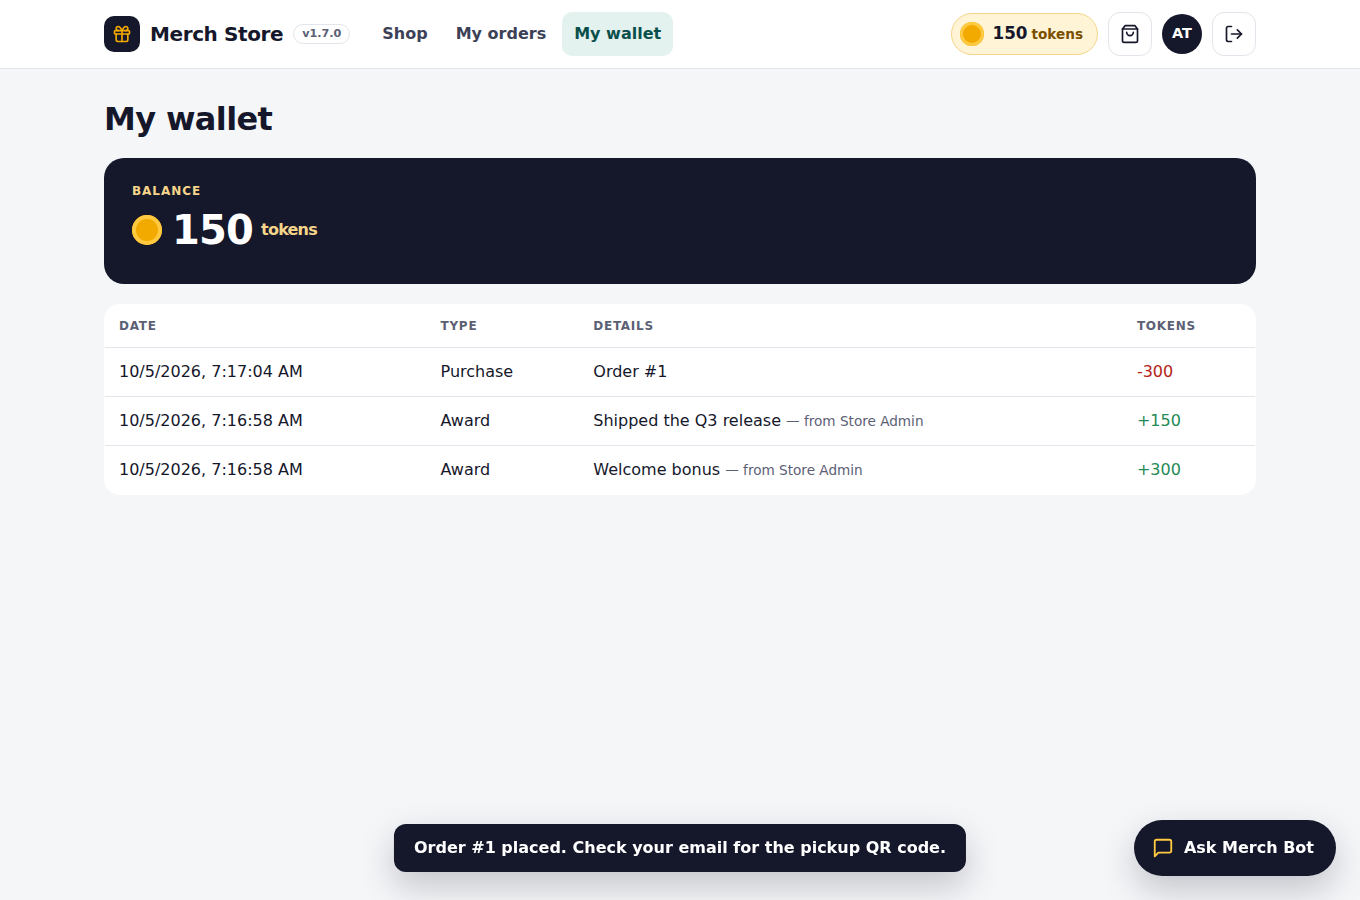
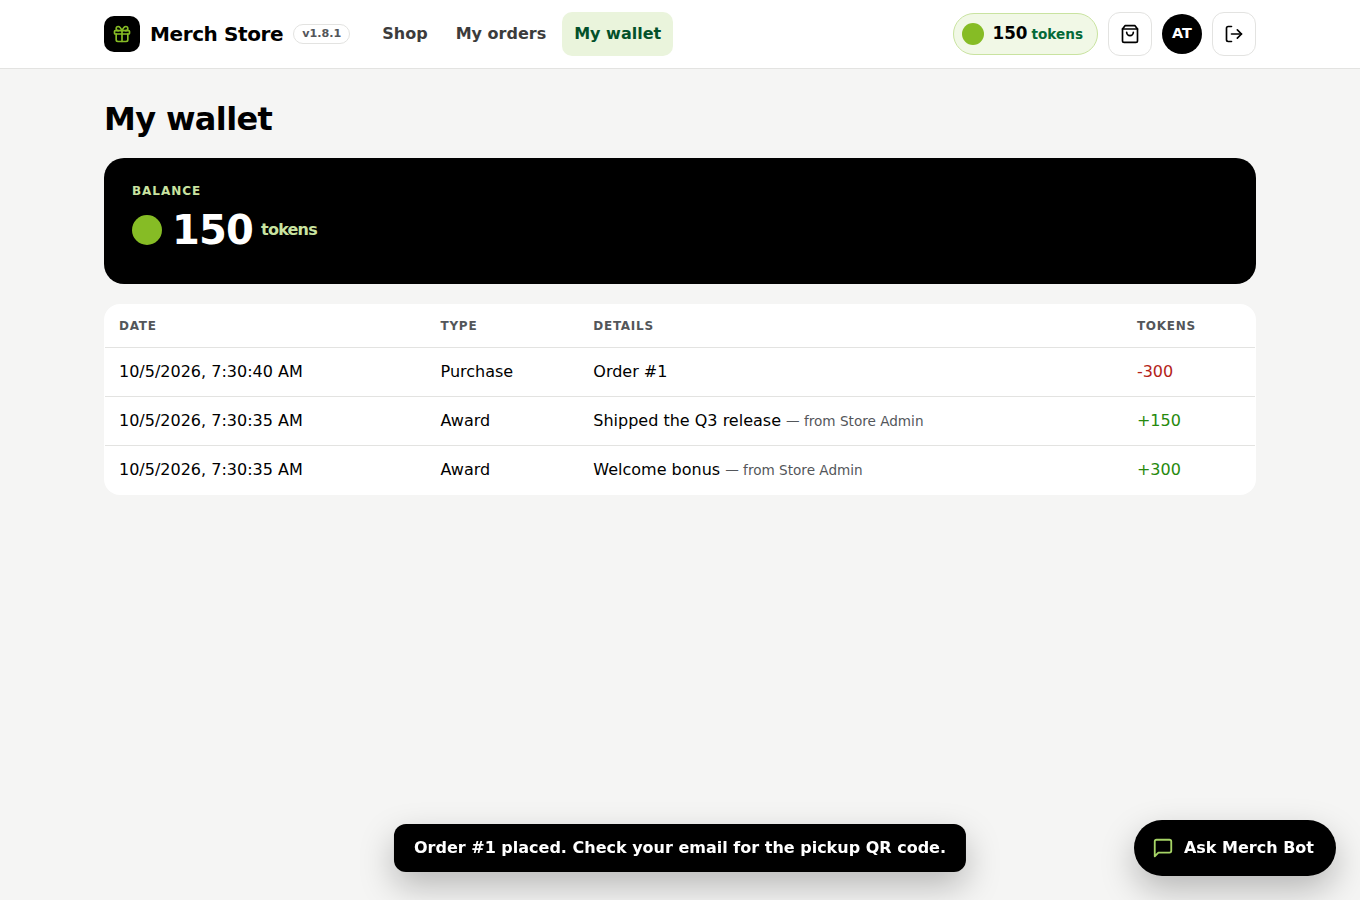
Recolour to the Deloitte colour standard (Green 368 and black)
- Brand accent Green 368 (#86BC25) for the token dot, highlights and
  the primary bulk action; black for header panels and bars.
- Dark green (#046A38) for buttons and links so white text keeps 4.5:1
  contrast; cool greys for text and borders; blue (#005587) for the
  'processing' status. Dark mode follows the same palette.
- Pending is neutral grey; a separate functional amber is kept for
  warnings so they never read as success.
- Email templates use the same palette (black header, green dot,
  dark-green button) with no emoji.
- Colours only: no logo or name added. Version 1.9.0.

Claude-Session: https://claude.ai/code/session_01JNkkwUCpPPwBtX6T1XMr4B

diff --git a/public/styles.css b/public/styles.css
@@ -1,66 +1,77 @@
-/* Merch Store — navy ink, gold tokens, teal actions.
+/* Merch Store — Deloitte colour standard: Green 368 (#86BC25) and black, dark-green actions.
    Display: Bricolage Grotesque · Body: Figtree */
 :root {
-  --bg: #f5f6f8;
+  /* Deloitte colour standard: Green 368 (#86BC25) with black, dark greens for
+     actions (white text needs the darker green for contrast) and cool greys. */
+  --bg: #f5f5f4;
   --surface: #ffffff;
-  --surface-2: #eef0f4;
-  --text: #15172b;
-  --text-2: #3d4157;
-  --muted: #5b6075;
-  --border: #e3e5ec;
-  --border-strong: #d5d8e2;
-  --primary: #0e6b66;
-  --primary-hover: #0a4f4b;
-  --primary-soft: #e3f1ef;
+  --surface-2: #efefee;
+  --text: #000000;
+  --text-2: #3c3c3c;
+  --muted: #53565a;          /* cool gray 11 */
+  --border: #e3e3e1;
+  --border-strong: #d0d0ce;  /* cool gray 2 */
+  --primary: #046a38;        /* green 6: buttons and links */
+  --primary-hover: #03502a;
+  --primary-soft: #eaf4dc;
   --primary-text: #ffffff;
-  --ink: #15172b;          /* navy panels */
-  --ink-2: #23264a;
+  --ink: #000000;            /* black panels */
+  --ink-2: #1f1f1f;
   --ink-text: #ffffff;
-  --ink-muted: #c9ccda;
-  --gold: #f2a900;
-  --gold-light: #ffc940;
-  --gold-soft: #fff4d6;
-  --gold-border: #f5d58a;
-  --gold-ink: #7a4f00;
-  --accent: var(--gold);
+  --ink-muted: #d0d0ce;
+  --brand: #86bc25;          /* Deloitte Green, Pantone 368 */
+  --brand-light: #a6d466;
+  --brand-soft: #f1f8e6;
+  --brand-border: #c9e3a0;
+  --brand-ink: #046a38;
+  --accent: var(--brand);
+  --warn: #d97706;          /* functional only: warnings, never decoration */
+  --warn-soft: #fff4e0;
+  --warn-ink: #7a4600;
+  --info-soft: #e6f1f8;
+  --info-ink: #005587;       /* blue 5 */
   --danger: #b42318;
   --danger-soft: #fde8e7;
-  --success: #1f8a55;
-  --success-soft: #ddf3e4;
-  --success-ink: #11633a;
+  --success: #26890d;        /* green 4 */
+  --success-soft: #eaf4dc;
+  --success-ink: #046a38;
   --radius: 16px;
   --radius-sm: 10px;
-  --shadow: 0 1px 2px rgba(21, 23, 43, 0.04), 0 8px 24px rgba(21, 23, 43, 0.06);
-  --shadow-lg: 0 14px 34px rgba(21, 23, 43, 0.22);
+  --shadow: 0 1px 2px rgba(0, 0, 0, 0.04), 0 8px 24px rgba(0, 0, 0, 0.06);
+  --shadow-lg: 0 14px 34px rgba(0, 0, 0, 0.25);
   --font-body: Figtree, ui-sans-serif, system-ui, -apple-system, "Segoe UI", sans-serif;
   --font-display: "Bricolage Grotesque", Figtree, ui-sans-serif, system-ui, sans-serif;
   --font-mono: ui-monospace, "SF Mono", Consolas, Menlo, monospace;
 }
 @media (prefers-color-scheme: dark) {
   :root {
-    --bg: #0f1020;
-    --surface: #181a2e;
-    --surface-2: #22253d;
-    --text: #e8eaf2;
-    --text-2: #c9ccda;
-    --muted: #a3a8bd;
-    --border: #2a2d47;
-    --border-strong: #3a3e5c;
-    --primary: #3fb8ae;
-    --primary-hover: #63cbc2;
-    --primary-soft: rgba(63, 184, 174, 0.16);
-    --primary-text: #0f1020;
-    --ink: #1f2240;
-    --ink-2: #2c3057;
-    --gold-soft: rgba(242, 169, 0, 0.14);
-    --gold-border: rgba(242, 169, 0, 0.4);
-    --gold-ink: #ffc940;
+    --bg: #0b0b0b;
+    --surface: #161616;
+    --surface-2: #222222;
+    --text: #f2f2f2;
+    --text-2: #d0d0ce;
+    --muted: #a7a8aa;
+    --border: #2a2a2a;
+    --border-strong: #3c3c3c;
+    --primary: #86bc25;
+    --primary-hover: #a6d466;
+    --primary-soft: rgba(134, 188, 37, 0.16);
+    --primary-text: #000000;
+    --ink: #000000;
+    --ink-2: #1f1f1f;
+    --brand-soft: rgba(134, 188, 37, 0.14);
+    --brand-border: rgba(134, 188, 37, 0.45);
+    --brand-ink: #a6d466;
+    --warn-soft: rgba(217, 119, 6, 0.16);
+    --warn-ink: #f5b45c;
+    --info-soft: rgba(0, 118, 168, 0.2);
+    --info-ink: #7fc4e8;
     --danger: #f2827a;
     --danger-soft: rgba(242, 130, 122, 0.15);
-    --success: #4cc38a;
-    --success-soft: rgba(76, 195, 138, 0.15);
-    --success-ink: #7ddcaa;
-    --shadow: 0 1px 2px rgba(0, 0, 0, 0.3), 0 8px 24px rgba(0, 0, 0, 0.3);
+    --success: #86bc25;
+    --success-soft: rgba(134, 188, 37, 0.16);
+    --success-ink: #a6d466;
+    --shadow: 0 1px 2px rgba(0, 0, 0, 0.4), 0 8px 24px rgba(0, 0, 0, 0.4);
   }
 }
 
@@ -82,16 +93,16 @@ code { background: var(--surface-2); padding: 1px 6px; border-radius: 6px; font-
 .positive { color: var(--success); }
 .negative { color: var(--danger); }
 .eyebrow { font-size: 0.75rem; font-weight: 700; letter-spacing: 0.08em; text-transform: uppercase; color: var(--muted); }
-.gold { color: var(--gold-light); }
+.gold { color: var(--brand); }
 .page-title { font-size: 2rem; margin-bottom: 20px; }
 
 /* Icons: line icons inherit the text colour */
 .ico { width: 20px; height: 20px; flex: none; fill: none; stroke: currentColor; stroke-width: 2; stroke-linecap: round; stroke-linejoin: round; vertical-align: middle; }
 
 /* Token coin */
-.coin { display: inline-block; width: 18px; height: 18px; border-radius: 50%; background: var(--gold); box-shadow: inset 0 0 0 2.5px var(--gold-light); vertical-align: -3px; margin-right: 6px; flex: none; }
+.coin { display: inline-block; width: 18px; height: 18px; border-radius: 50%; background: var(--brand); box-shadow: none; vertical-align: -3px; margin-right: 6px; flex: none; }
 .coin.sm { width: 13px; height: 13px; margin-right: 4px; vertical-align: -1px; }
-.coin.big { width: 30px; height: 30px; box-shadow: inset 0 0 0 4px var(--gold-light); margin-right: 10px; }
+.coin.big { width: 30px; height: 30px; margin-right: 10px; }
 
 /* Buttons */
 .btn { display: inline-flex; align-items: center; justify-content: center; gap: 8px; min-height: 44px; border: 1px solid var(--border-strong); background: var(--surface); color: var(--text); padding: 8px 16px; border-radius: var(--radius-sm); cursor: pointer; font: inherit; font-weight: 600; text-decoration: none; transition: background 0.15s, border-color 0.15s, color 0.15s; }
@@ -138,7 +149,7 @@ label.checkbox input { width: 20px; }
 .login-card h2 { margin: 0; }
 
 /* Brand */
-.brand-mark { width: 36px; height: 36px; border-radius: 10px; background: var(--ink); color: var(--gold); display: inline-flex; align-items: center; justify-content: center; flex: none; }
+.brand-mark { width: 36px; height: 36px; border-radius: 10px; background: var(--ink); color: var(--brand); display: inline-flex; align-items: center; justify-content: center; flex: none; }
 .brand-mark.big { width: 56px; height: 56px; border-radius: 16px; background: var(--ink-2); }
 .brand-mark.big .ico { width: 30px; height: 30px; }
 
@@ -155,9 +166,9 @@ label.checkbox input { width: 20px; }
 #nav a:hover { background: var(--surface-2); }
 #nav a.active { background: var(--primary-soft); color: var(--primary-hover); font-weight: 700; }
 .topbar-right { margin-left: auto; display: flex; gap: 10px; align-items: center; flex-wrap: wrap; }
-.balance-pill { display: inline-flex; align-items: center; padding: 7px 14px 7px 8px; border-radius: 999px; background: var(--gold-soft); border: 1px solid var(--gold-border); font-size: 1.05rem; }
-.balance-pill .coin { width: 24px; height: 24px; box-shadow: inset 0 0 0 3px var(--gold-light); margin-right: 8px; }
-.balance-unit { color: var(--gold-ink); font-size: 0.85rem; font-weight: 600; margin-left: 4px; }
+.balance-pill { display: inline-flex; align-items: center; padding: 7px 14px 7px 8px; border-radius: 999px; background: var(--brand-soft); border: 1px solid var(--brand-border); font-size: 1.05rem; }
+.balance-pill .coin { width: 22px; height: 22px; margin-right: 8px; }
+.balance-unit { color: var(--brand-ink); font-size: 0.85rem; font-weight: 600; margin-left: 4px; }
 .avatar { width: 40px; height: 40px; border-radius: 50%; background: var(--ink); color: var(--ink-text); display: inline-flex; align-items: center; justify-content: center; font-weight: 700; font-size: 0.9rem; }
 
 main { max-width: 1200px; margin: 0 auto; padding: 32px 24px 120px; }
@@ -168,14 +179,14 @@ main { max-width: 1200px; margin: 0 auto; padding: 32px 24px 120px; }
 /* Shop header */
 .shop-hero { display: grid; grid-template-columns: repeat(auto-fit, minmax(300px, 1fr)); gap: 20px; margin-bottom: 36px; }
 .hero-panel { grid-column: span 2; min-width: 0; background: var(--ink); color: var(--ink-text); border-radius: 20px; padding: 32px; display: flex; flex-direction: column; gap: 14px; }
-.hero-panel .eyebrow { color: var(--gold-border); }
+.hero-panel .eyebrow { color: var(--brand-border); }
 .hero-panel h1 { font-size: clamp(2rem, 4vw, 2.75rem); margin: 0; }
 .hero-panel p { margin: 0; font-size: 1.1rem; color: var(--ink-muted); max-width: 580px; }
 .awards { display: flex; flex-wrap: wrap; gap: 12px; margin-top: 6px; }
 .awards:empty { display: none; }
-.award { display: flex; align-items: center; gap: 12px; padding: 12px 16px; border-radius: 14px; background: var(--ink-2); font-size: 0.95rem; color: #e4e6f0; }
-.award-amount { font-family: var(--font-display); font-weight: 800; font-size: 1.25rem; color: var(--gold-light); }
-.award-from { color: #a9adc2; font-size: 0.8rem; }
+.award { display: flex; align-items: center; gap: 12px; padding: 12px 16px; border-radius: 14px; background: var(--ink-2); font-size: 0.95rem; color: #e6e6e6; }
+.award-amount { font-family: var(--font-display); font-weight: 800; font-size: 1.25rem; color: var(--brand-light); }
+.award-from { color: #a7a8aa; font-size: 0.8rem; }
 .next-card { display: flex; flex-direction: column; gap: 10px; padding: 28px; }
 .next-label { display: flex; align-items: center; gap: 10px; color: var(--primary); font-weight: 700; }
 .next-date { font-family: var(--font-display); font-weight: 700; font-size: 1.9rem; line-height: 1.1; letter-spacing: -0.02em; }
@@ -214,9 +225,9 @@ main { max-width: 1200px; margin: 0 auto; padding: 32px 24px 120px; }
 .table th { font-size: 0.75rem; letter-spacing: 0.06em; text-transform: uppercase; color: var(--muted); background: var(--surface); }
 .table tr:last-child td { border-bottom: none; }
 .wallet-summary { margin-bottom: 20px; padding: 24px 28px; border-radius: 20px; background: var(--ink); color: var(--ink-text); }
-.wallet-summary .eyebrow { color: var(--gold-border); }
+.wallet-summary .eyebrow { color: var(--brand-border); }
 .wallet-amount { display: flex; align-items: center; font-family: var(--font-display); font-weight: 800; font-size: 2.5rem; letter-spacing: -0.02em; }
-.wallet-summary .balance-unit { color: var(--gold-border); font-family: var(--font-body); font-size: 1rem; margin-left: 8px; }
+.wallet-summary .balance-unit { color: var(--brand-border); font-family: var(--font-body); font-size: 1rem; margin-left: 8px; }
 
 /* Orders */
 .order { margin-bottom: 16px; display: flex; flex-direction: column; gap: 14px; }
@@ -227,12 +238,11 @@ main { max-width: 1200px; margin: 0 auto; padding: 32px 24px 120px; }
 .order-items li { display: flex; justify-content: space-between; gap: 12px; }
 .order select { width: auto; text-transform: capitalize; }
 .status { display: inline-block; font-size: 0.8rem; padding: 3px 12px; border-radius: 999px; font-weight: 700; text-transform: capitalize; white-space: nowrap; }
-.status.pending { background: var(--gold-soft); color: var(--gold-ink); }
-.status.processing { background: #e8eafb; color: #2b3590; }
+.status.pending { background: var(--surface-2); color: var(--text-2); }
+.status.processing { background: var(--info-soft); color: var(--info-ink); }
 .status.ready { background: var(--success-soft); color: var(--success-ink); }
 .status.collected { background: var(--surface-2); color: var(--text-2); }
 .status.cancelled { background: var(--danger-soft); color: var(--danger); }
-@media (prefers-color-scheme: dark) { .status.processing { background: rgba(126, 140, 255, 0.16); color: #b9c1ff; } }
 .progress { list-style: none; margin: 0; padding: 0; display: grid; grid-template-columns: repeat(4, minmax(0, 1fr)); gap: 6px; }
 .progress li { display: flex; flex-direction: column; gap: 6px; font-size: 0.8rem; font-weight: 600; color: var(--muted); }
 .progress li span { height: 6px; border-radius: 3px; background: var(--border-strong); }
@@ -242,15 +252,15 @@ main { max-width: 1200px; margin: 0 auto; padding: 32px 24px 120px; }
 
 /* Collection */
 .collect { display: flex; align-items: center; gap: 14px; background: var(--ink); color: var(--ink-text); border-radius: 14px; padding: 14px 16px; font-size: 0.95rem; line-height: 1.5; }
-.collect .collect-note { color: #a9adc2; font-size: 0.85rem; }
-.collect.tbc { display: block; background: var(--gold-soft); color: var(--text); border: 1px solid var(--gold-border); }
-.date-tile { width: 56px; flex: none; border-radius: 12px; background: var(--gold); color: #15172b; text-align: center; padding: 6px 0; display: flex; flex-direction: column; font-size: 0.7rem; font-weight: 800; letter-spacing: 0.06em; }
+.collect .collect-note { color: #a7a8aa; font-size: 0.85rem; }
+.collect.tbc { display: block; background: var(--warn-soft); color: var(--text); border: 1px solid color-mix(in srgb, var(--warn) 40%, transparent); }
+.date-tile { width: 56px; flex: none; border-radius: 12px; background: var(--brand); color: #000000; text-align: center; padding: 6px 0; display: flex; flex-direction: column; font-size: 0.7rem; font-weight: 800; letter-spacing: 0.06em; }
 .date-tile strong { font-family: var(--font-display); font-size: 1.6rem; line-height: 1; letter-spacing: 0; }
 label.inline { flex-direction: row; align-items: center; gap: 8px; font-size: 0.85rem; color: var(--muted); }
 label.inline select { width: auto; max-width: 260px; color: var(--text); font-weight: 600; }
 tr.muted td { color: var(--muted); }
 .notice { margin-bottom: 16px; line-height: 1.6; }
-.notice.warn { border-color: var(--gold-border); background: color-mix(in srgb, var(--gold-soft) 60%, var(--surface)); }
+.notice.warn { border-color: color-mix(in srgb, var(--warn) 45%, transparent); background: color-mix(in srgb, var(--warn-soft) 60%, var(--surface)); }
 .notice.ok { border-color: color-mix(in srgb, var(--success) 50%, transparent); }
 .inbox-box { margin: 12px 0; padding: 12px 14px; border-radius: 12px; background: var(--surface); border: 1px solid var(--border); display: flex; flex-direction: column; gap: 8px; }
 code.copy { cursor: copy; user-select: all; }
@@ -262,7 +272,7 @@ code.copy { cursor: copy; user-select: all; }
 .pills { display: flex; gap: 8px; flex-wrap: wrap; align-items: center; }
 .pill { font-size: 0.85rem; font-weight: 700; padding: 4px 12px; border-radius: 999px; background: var(--surface-2); color: var(--text-2); }
 .pill.create { background: var(--success-soft); color: var(--success-ink); }
-.pill.update { background: #e8eafb; color: #2b3590; }
+.pill.update { background: var(--info-soft); color: var(--info-ink); }
 .pill.error { background: var(--danger-soft); color: var(--danger); }
 .preview-table { max-height: 360px; overflow: auto; border: 1px solid var(--border); border-radius: var(--radius); }
 .preview-table .table { border: none; border-radius: 0; }
@@ -274,12 +284,12 @@ code.copy { cursor: copy; user-select: all; }
 .save-bar { position: fixed; left: 0; right: 0; bottom: 20px; margin: 0 auto; width: max-content; max-width: calc(100% - 160px); z-index: 25;
   display: flex; align-items: center; gap: 10px; flex-wrap: wrap; justify-content: center;
   background: var(--ink); color: var(--ink-text); border-radius: 16px; box-shadow: var(--shadow-lg); padding: 10px 12px 10px 18px; }
-.save-bar .btn { background: transparent; color: var(--ink-text); border-color: #3a3e66; }
+.save-bar .btn { background: transparent; color: var(--ink-text); border-color: #3c3c3c; }
 .save-bar .btn:hover { background: var(--ink-2); }
-.save-bar .btn.primary { background: var(--gold); color: #15172b; border-color: var(--gold); }
-.save-bar .btn.primary:hover { background: var(--gold-light); }
+.save-bar .btn.primary { background: var(--brand); color: #000000; border-color: var(--brand); }
+.save-bar .btn.primary:hover { background: var(--brand-light); }
 .save-bar .btn.ghost { border-color: transparent; color: var(--ink-muted); }
-.save-bar select { width: auto; max-width: 240px; min-height: 44px; background: var(--ink-2); color: var(--ink-text); border-color: #3a3e66; }
+.save-bar select { width: auto; max-width: 240px; min-height: 44px; background: var(--ink-2); color: var(--ink-text); border-color: #3c3c3c; }
 .save-bar #stock-dirty, #order-selected { font-weight: 700; margin-right: 4px; }
 body.has-save-bar .toast { bottom: 100px; }
 body.has-save-bar .chat-toggle, body.has-save-bar .chat { display: none; }
@@ -324,19 +334,19 @@ body.has-save-bar .chat-toggle, body.has-save-bar .chat { display: none; }
 .camera-box .btn.ghost { color: var(--ink-text); }
 .checkin-card { margin: 16px 0; padding: 22px; border-width: 2px; }
 .checkin-card.ok { border-color: var(--success); }
-.checkin-card.warn { border-color: var(--gold); }
+.checkin-card.warn { border-color: var(--warn); }
 .checkin-card.stop { border-color: var(--danger); }
 .checkin-card h3 { font-size: 1.6rem; margin: 6px 0 2px; }
 .checkin-card .items-big { font-size: 1.15rem; line-height: 1.7; margin: 12px 0; padding: 12px 16px 12px 34px; border-radius: 12px; background: var(--bg); }
 .checkin-card .banner { font-weight: 700; padding: 10px 14px; border-radius: 10px; margin: 12px 0; }
 .banner.ok { background: var(--success-soft); color: var(--success-ink); }
-.banner.warn { background: var(--gold-soft); color: var(--gold-ink); }
+.banner.warn { background: var(--warn-soft); color: var(--warn-ink); }
 .banner.stop { background: var(--danger-soft); color: var(--danger); }
 .checkin-help { margin: 16px 0; line-height: 1.6; }
 .checkin-log { padding-left: 18px; line-height: 1.9; }
 
 /* Modals */
-.modal { position: fixed; inset: 0; background: rgba(15, 16, 32, 0.55); display: grid; place-items: center; z-index: 40; padding: 16px; }
+.modal { position: fixed; inset: 0; background: rgba(0, 0, 0, 0.55); display: grid; place-items: center; z-index: 40; padding: 16px; }
 .modal-box { width: min(680px, 100%); height: min(760px, 100%); display: flex; flex-direction: column; gap: 12px; }
 .modal-box iframe { flex: 1; width: 100%; border: 1px solid var(--border); border-radius: 12px; background: #fff; }
 
@@ -366,7 +376,7 @@ body.has-save-bar .chat-toggle, body.has-save-bar .chat { display: none; }
 
 /* Merch Bot */
 .chat-toggle { position: fixed; right: 24px; bottom: 24px; height: 56px; padding: 0 22px 0 18px; border: none; border-radius: 999px; background: var(--ink); color: var(--ink-text); font: inherit; font-weight: 700; display: flex; align-items: center; gap: 10px; cursor: pointer; box-shadow: var(--shadow-lg); z-index: 20; }
-.chat-toggle .ico { color: var(--gold-light); width: 22px; height: 22px; }
+.chat-toggle .ico { color: var(--brand-light); width: 22px; height: 22px; }
 .chat-toggle:hover { background: var(--ink-2); }
 .chat { position: fixed; right: 24px; bottom: 92px; width: min(390px, calc(100% - 32px)); height: min(560px, calc(100vh - 124px)); background: var(--surface); border: 1px solid var(--border); border-radius: 20px; box-shadow: var(--shadow-lg); display: flex; flex-direction: column; z-index: 20; overflow: hidden; }
 .chat-head { display: flex; justify-content: space-between; align-items: center; padding: 14px 16px; background: var(--ink); color: var(--ink-text); }

diff --git a/src/emails.js b/src/emails.js
@@ -29,23 +29,23 @@ function itemsHtml(order) {
   const rows = order.items.map((i) => `
     <tr>
       <td style="padding:6px 0">${i.quantity} × ${esc(i.product_name)}</td>
-      <td style="padding:6px 0;text-align:right">🪙 ${i.unit_price * i.quantity}</td>
+      <td style="padding:6px 0;text-align:right"><span style="display:inline-block;width:12px;height:12px;border-radius:50%;background:#86bc25;vertical-align:-1px;margin-right:6px"></span>${i.unit_price * i.quantity}</td>
     </tr>`).join('');
   return `<table role="presentation" width="100%" style="border-collapse:collapse;font-size:14px">${rows}
-    <tr><td style="padding:8px 0;border-top:1px solid #e3e6ee"><strong>Total</strong></td>
-        <td style="padding:8px 0;border-top:1px solid #e3e6ee;text-align:right"><strong>🪙 ${order.total} tokens</strong></td></tr>
+    <tr><td style="padding:8px 0;border-top:1px solid #e3e3e1"><strong>Total</strong></td>
+        <td style="padding:8px 0;border-top:1px solid #e3e3e1;text-align:right"><strong><span style="display:inline-block;width:12px;height:12px;border-radius:50%;background:#86bc25;vertical-align:-1px;margin-right:6px"></span>${order.total} tokens</strong></td></tr>
   </table>`;
 }
 
 function collectionBoxHtml(day, heading = 'Collection details') {
   const c = collectionLines(day);
   if (!c) {
-    return `<div style="background:#fef3c7;border-radius:8px;padding:14px 16px;margin:16px 0">
+    return `<div style="background:#f2f2f2;border-radius:8px;padding:14px 16px;margin:16px 0">
       <strong>Collection date to be confirmed</strong><br>
       We'll email you as soon as the next collection day is scheduled.
     </div>`;
   }
-  return `<div style="background:#eef2ff;border-radius:8px;padding:14px 16px;margin:16px 0;line-height:1.6">
+  return `<div style="background:#f1f8e6;border-radius:8px;padding:14px 16px;margin:16px 0;line-height:1.6">
     <strong>${esc(heading)}</strong><br>
     📅 ${esc(c.when)}<br>
     📍 ${esc(c.where)}${c.notes ? `<br>ℹ ${esc(c.notes)}` : ''}
@@ -60,10 +60,10 @@ function collectionText(day) {
 
 function qrHtml(order) {
   if (!order.pickup_code) return '';
-  return `<div style="text-align:center;border:1px dashed #c7cbe0;border-radius:8px;padding:16px;margin:16px 0">
+  return `<div style="text-align:center;border:1px dashed #c9e3a0;border-radius:8px;padding:16px;margin:16px 0">
     <div style="font-weight:600;margin-bottom:8px">Show this at the collection desk</div>
     <img src="cid:${QR_CID}" width="180" height="180" alt="Pickup QR code for order #${order.id}" style="display:block;margin:0 auto">
-    <div style="margin-top:8px;font-size:13px;color:#6b7385">Pickup code</div>
+    <div style="margin-top:8px;font-size:13px;color:#53565a">Pickup code</div>
     <div style="font-size:22px;font-weight:700;letter-spacing:3px;font-family:Consolas,Menlo,monospace">${esc(formatCode(order.pickup_code))}</div>
   </div>`;
 }
@@ -75,15 +75,15 @@ function qrText(order) {
 function layout({ title, bodyHtml }) {
   const ordersUrl = `${settings.appUrl}/#orders`;
   return `<!doctype html>
-<html><body style="margin:0;padding:24px;background:#f6f7fb;font-family:Segoe UI,Roboto,Helvetica,Arial,sans-serif;color:#1d2433">
-  <table role="presentation" width="100%" style="max-width:560px;margin:0 auto;background:#ffffff;border-radius:12px;border:1px solid #e3e6ee">
-    <tr><td style="padding:20px 24px;border-bottom:1px solid #e3e6ee;font-size:18px;font-weight:700">🎁 ${esc(settings.companyName)} Merch Store</td></tr>
+<html><body style="margin:0;padding:24px;background:#f5f5f4;font-family:Segoe UI,Roboto,Helvetica,Arial,sans-serif;color:#000000">
+  <table role="presentation" width="100%" style="max-width:560px;margin:0 auto;background:#ffffff;border-radius:12px;border:1px solid #e3e3e1">
+    <tr><td style="padding:20px 24px;background:#000000;color:#ffffff;border-radius:12px 12px 0 0;font-size:18px;font-weight:700">${esc(settings.companyName)} Merch Store<span style="display:inline-block;width:9px;height:9px;border-radius:50%;background:#86bc25;margin-left:3px"></span></td></tr>
     <tr><td style="padding:24px">
       <h1 style="font-size:20px;margin:0 0 16px">${esc(title)}</h1>
       ${bodyHtml}
-      <p style="margin:24px 0 0"><a href="${esc(ordersUrl)}" style="display:inline-block;background:#4f46e5;color:#ffffff;text-decoration:none;padding:10px 18px;border-radius:8px">View my orders</a></p>
+      <p style="margin:24px 0 0"><a href="${esc(ordersUrl)}" style="display:inline-block;background:#046a38;color:#ffffff;text-decoration:none;padding:10px 18px;border-radius:8px">View my orders</a></p>
     </td></tr>
-    <tr><td style="padding:16px 24px;border-top:1px solid #e3e6ee;font-size:12px;color:#6b7385">
+    <tr><td style="padding:16px 24px;border-top:1px solid #e3e3e1;font-size:12px;color:#53565a">
       This is an automated message from the ${esc(settings.companyName)} Merch Store. Questions? Ask Merch Bot in the store or contact the HR / People team.
     </td></tr>
   </table>
@@ -105,7 +105,7 @@ const templates = {
         ${itemsHtml(order)}
         ${collectionBoxHtml(day, 'Please collect your items on')}
         ${qrHtml(order)}
-        <p style="color:#6b7385;font-size:14px">We'll send you a reminder the day before. Changed your mind? You can cancel from My Orders while the order is still pending and your tokens will be refunded.</p>`,
+        <p style="color:#53565a;font-size:14px">We'll send you a reminder the day before. Changed your mind? You can cancel from My Orders while the order is still pending and your tokens will be refunded.</p>`,
     });
     const text = `Hi ${firstName(order.user_name)},
 
